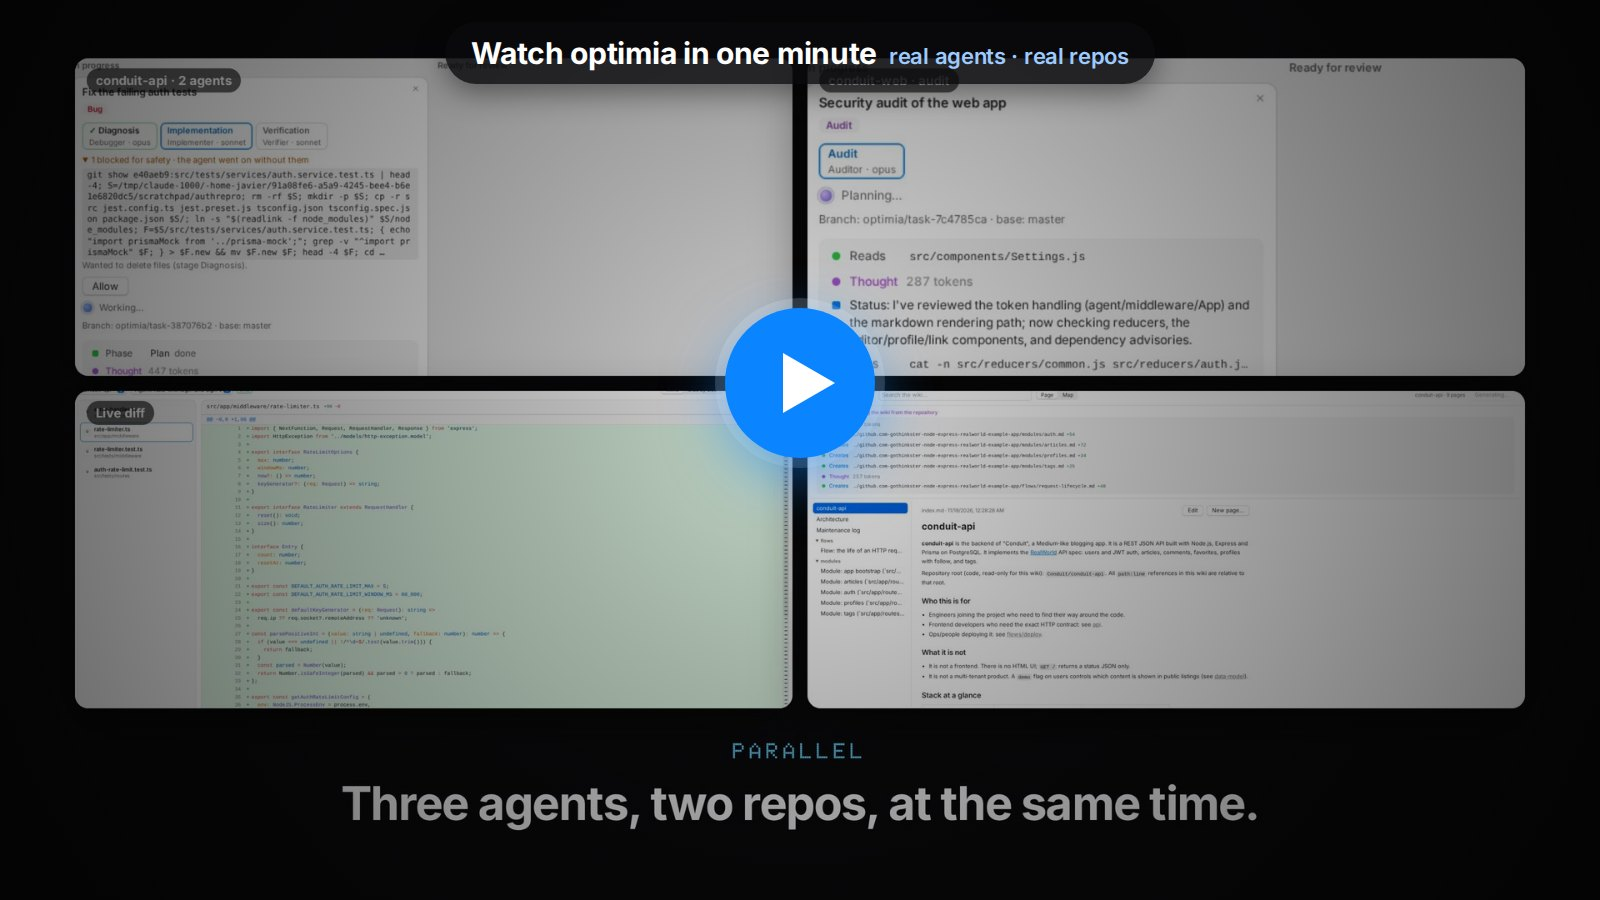
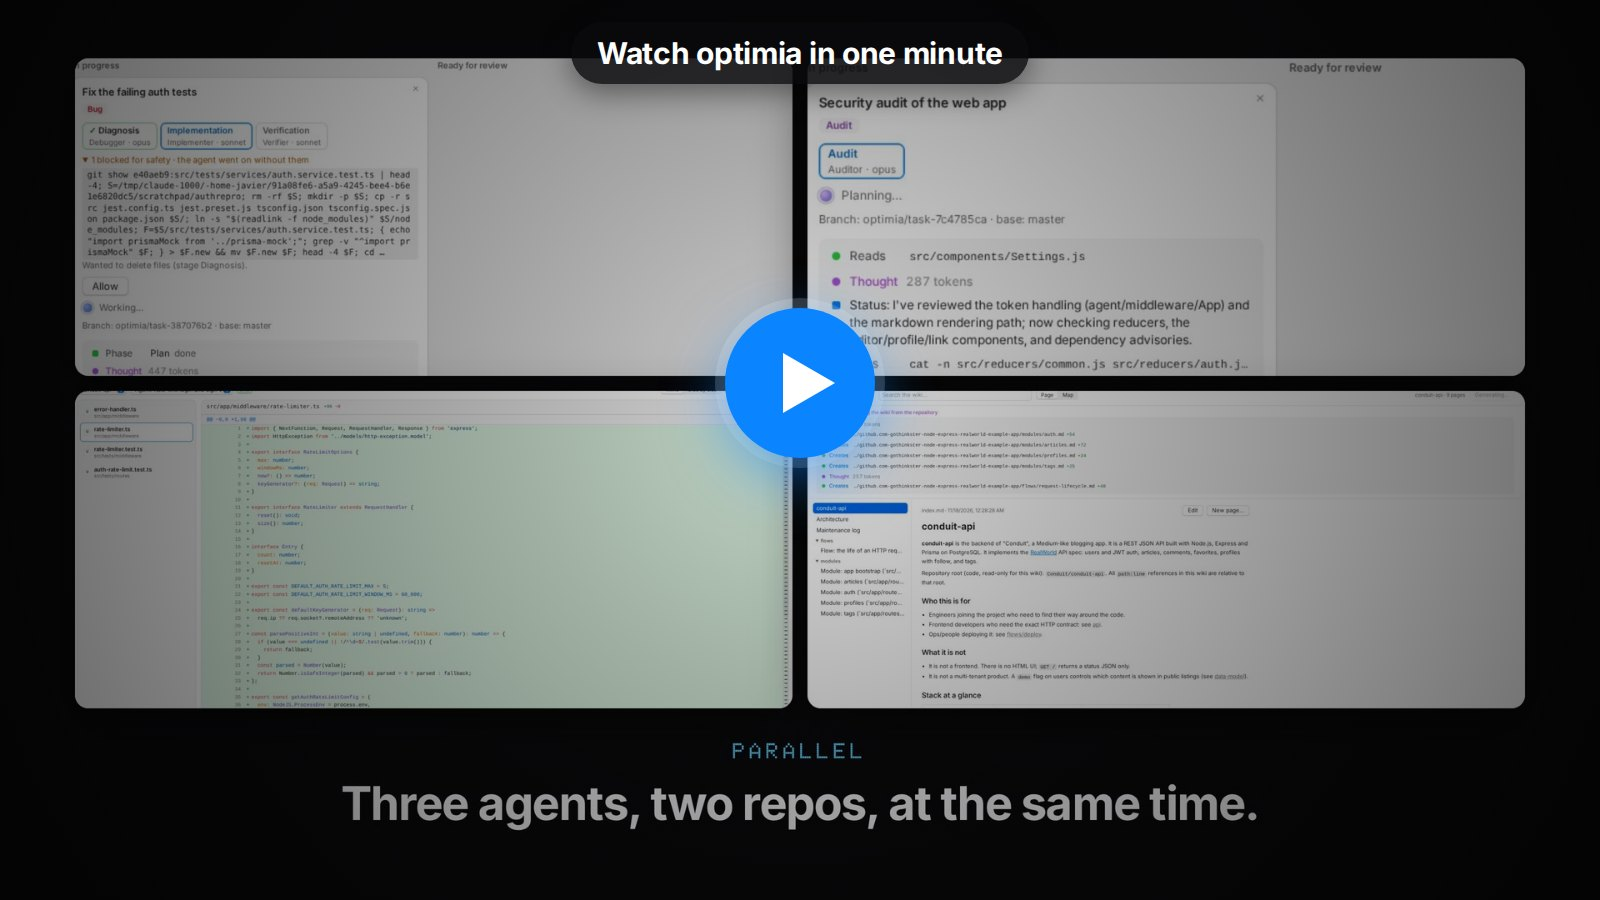
docs(readme): the video in 4K with its soundtrack, without labels

Changed region(s): [[0.2812, 0.0311, 0.7188, 0.1244], [0.0312, 0.0622, 0.1562, 0.1244], [0.0312, 0.4356, 0.0938, 0.4978]]

diff --git a/CHANGELOG.md b/CHANGELOG.md
@@ -8,7 +8,7 @@ Format based on [Keep a Changelog](https://keepachangelog.com/).
 - **Live agent activity**: every task card shows, as it happens, what the agent says it is doing, the files it reads, its edits (+/−), the commands it runs with their result (test summaries included), its to-do list, how much it is thinking, blocked actions and the end of each stage. The full feed stays a click away.
 - **Generate the wiki from the repository**: a button in the Wiki view has the librarian agent explore the repo and write linked pages (architecture, modules, flows, data, API, development, glossary), shown live while it writes.
 - Task worktrees reuse the dependencies already installed in the repo (`node_modules`, `.venv`, `vendor/bundle`), so the agents can build and run the tests without reinstalling. The link never ends up in a commit.
-- A one-minute video filmed from real agent runs (in 4K too) and an animated demo at the top of the README.
+- A one-minute 4K video filmed from real agent runs, with its own synthesised soundtrack, and an animated demo at the top of the README.
 
 ### Changed
 - Agents write in the language of your request (narration, reports, questions, commit and PR texts), and the wiki in the interface's language.

diff --git a/README.md b/README.md
@@ -20,13 +20,11 @@
 </p>
 
 <p align="center">
-  <a href="https://optimia.jagoan.es/media/optimia-promo-v2.2.mp4"><img src="docs/assets/demo-agents.gif" alt="Real agents at work in optimia: their reasoning, a risky command blocked for safety, and three agents running at once in two repos" width="100%"></a>
+  <a href="https://optimia.jagoan.es/media/optimia-2.2.0-4k.mp4"><img src="docs/assets/demo-agents.gif" alt="Agents at work in optimia: their reasoning, a risky command blocked for safety, and three agents running at once in two repos" width="100%"></a>
 </p>
 
 <p align="center">
-  <a href="https://optimia.jagoan.es/media/optimia-promo-v2.2.mp4"><b>▶ Watch optimia in one minute</b></a>
-  &nbsp;·&nbsp; <a href="https://optimia.jagoan.es/media/optimia-promo-v2.2-4k.mp4">4K</a>
-  &nbsp;·&nbsp; real agents on a real two-repo project, sped up
+  <a href="https://optimia.jagoan.es/media/optimia-2.2.0-4k.mp4"><b>▶ Watch optimia in one minute</b></a>
 </p>
 
 ![optimia: the chat on the left, the agents' task board on the right with a task ready to deliver as a pull request](docs/assets/screenshot-tasks.png)
